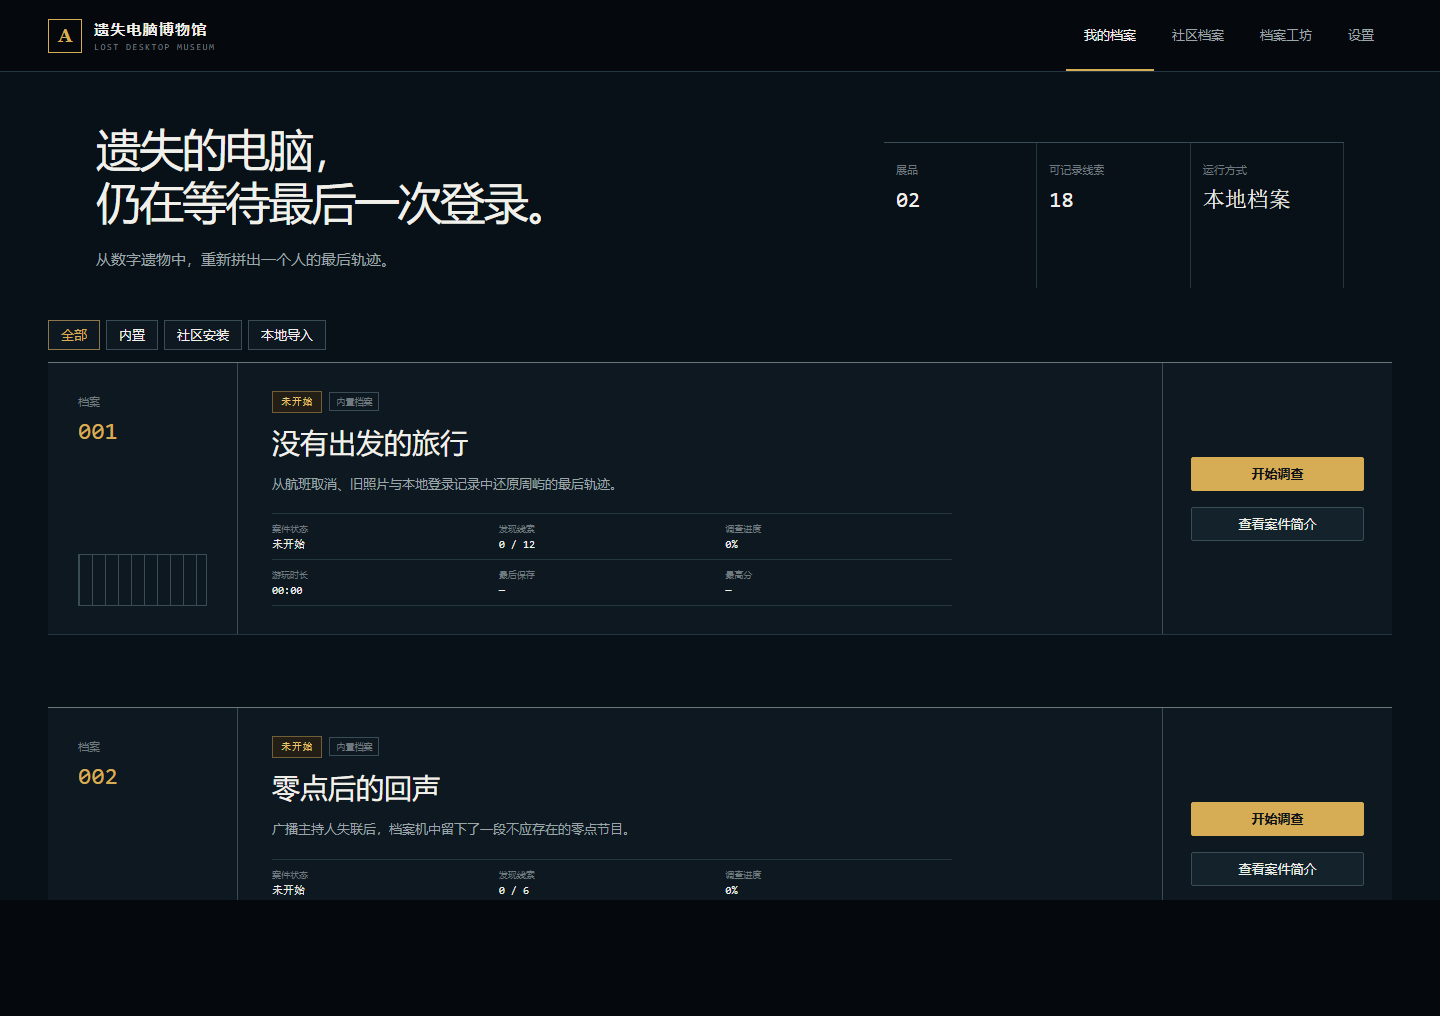
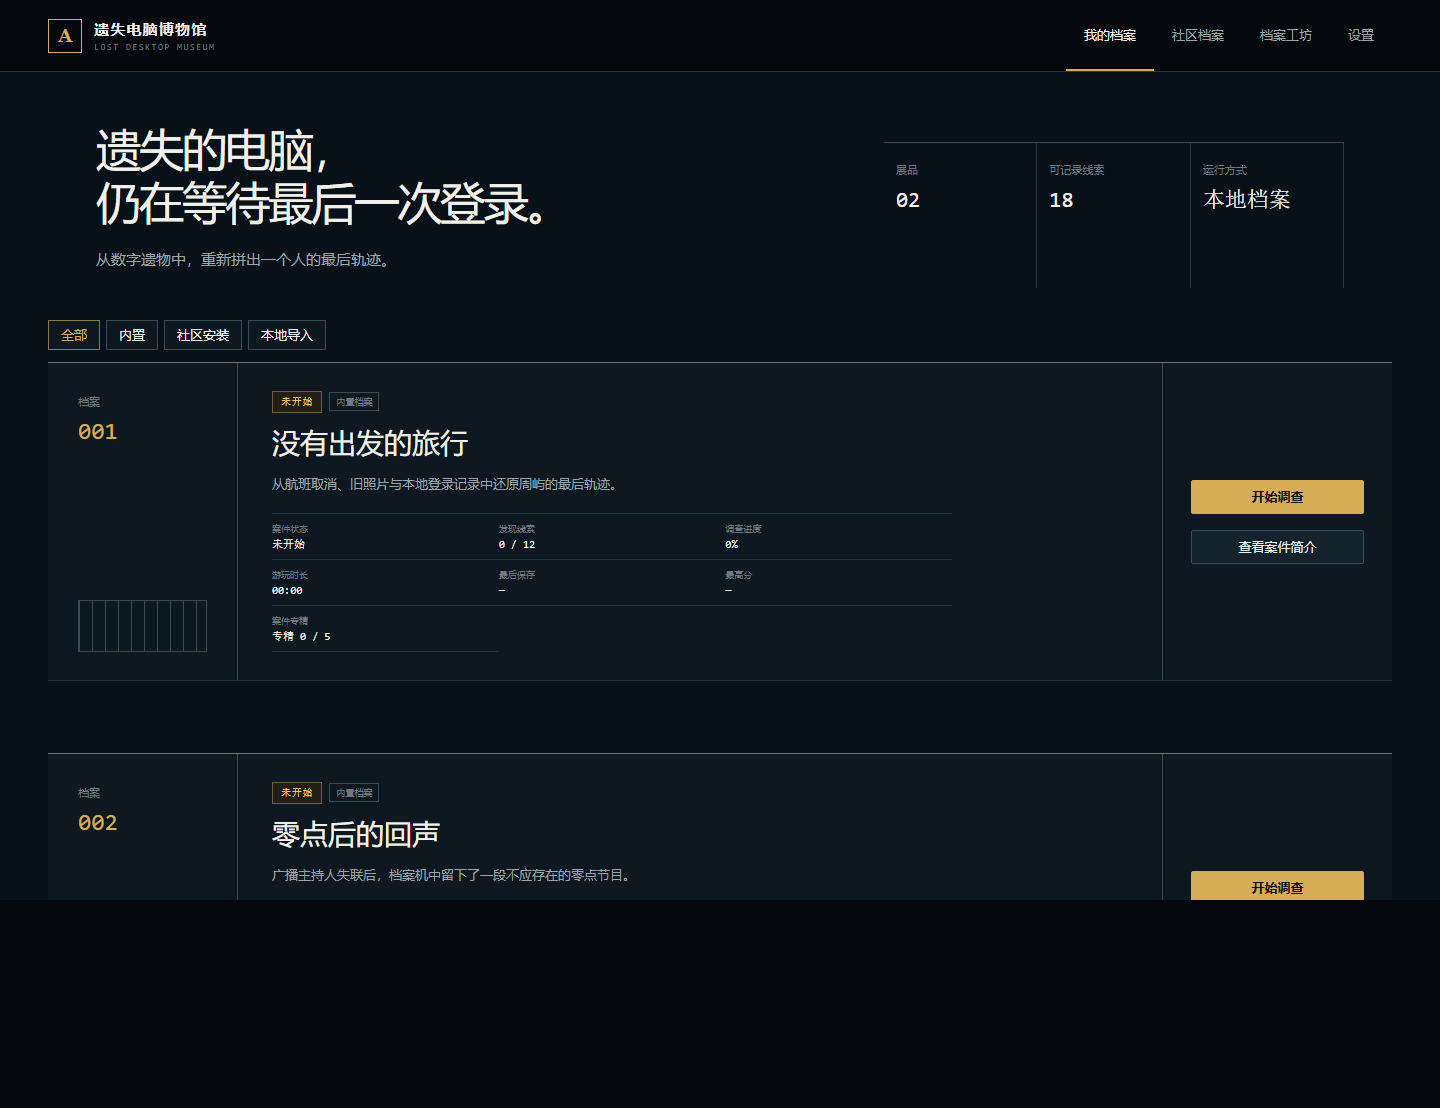
test: cover deep investigation journeys

diff --git a/e2e/deep-investigation.spec.ts b/e2e/deep-investigation.spec.ts
@@ -1,0 +1,183 @@
+import { expect, test, type Page } from '@playwright/test'
+import { readFile } from 'node:fs/promises'
+
+function watchErrors(page: Page) {
+  const errors: string[] = []
+  page.on('pageerror', (error) => errors.push(error.message))
+  page.on('console', (message) => { if (message.type() === 'error') errors.push(message.text()) })
+  return errors
+}
+
+async function enterFirstCase(page: Page) {
+  await page.goto('/')
+  await page.getByRole('button', { name: '查看案件简介' }).click()
+  await page.getByRole('button', { name: '开始调查' }).click()
+  await page.getByRole('button', { name: '跳过启动' }).click()
+  await page.getByRole('button', { name: '进入调查桌面' }).click()
+  const onboarding = page.getByRole('button', { name: '跳过介绍' })
+  if (await onboarding.count()) await onboarding.click()
+  await expect(page.getByTestId('desktop')).toBeVisible()
+}
+
+async function openApp(page: Page, name: string) {
+  await page.getByRole('button', { name, exact: true }).dblclick()
+  await expect(page.getByRole('dialog', { name })).toBeVisible()
+}
+
+async function closeApp(page: Page, name: string) {
+  await page.getByRole('button', { name: `关闭 ${name}` }).click()
+}
+
+async function discoverAllClues(page: Page) {
+  await openApp(page, '邮件')
+  await page.getByRole('button', { name: /HX217 订单取消成功/ }).click()
+  await closeApp(page, '邮件')
+  await openApp(page, '讯息')
+  await page.getByRole('button', { name: /周屿 · 23:12/ }).click()
+  await closeApp(page, '讯息')
+  await openApp(page, '照片')
+  await page.getByRole('button', { name: /IMG_1117_发给唐遥/ }).click()
+  await page.getByRole('button', { name: '查看元数据' }).click()
+  await closeApp(page, '照片')
+  await openApp(page, '浏览记录')
+  await page.getByRole('button', { name: /如何保留照片画面但更改拍摄时间/ }).click()
+  await closeApp(page, '浏览记录')
+  await openApp(page, '回收站')
+  await page.getByRole('button', { name: /告别信_v3/ }).click()
+  await closeApp(page, '回收站')
+  await openApp(page, '日历')
+  await page.getByRole('button', { name: '林然生日' }).click()
+  await closeApp(page, '日历')
+  await openApp(page, '系统日志')
+  await page.getByRole('button', { name: /创建隐藏用户 LINRAN/ }).click()
+  await page.getByRole('button', { name: /HOME-NET-5G/ }).click()
+  await closeApp(page, '系统日志')
+  await openApp(page, '邮件')
+  await page.getByRole('button', { name: /草稿/ }).click()
+  await page.getByRole('button', { name: /给妈妈/ }).click()
+  await page.getByRole('button', { name: /收件箱/ }).click()
+  await page.getByRole('button', { name: /北岸酒店预订成功/ }).click()
+  await closeApp(page, '邮件')
+  await openApp(page, '讯息')
+  await page.getByRole('button', { name: /房东陈女士/ }).click()
+  await page.getByRole('button', { name: /陈女士 · 23:31/ }).click()
+  await closeApp(page, '讯息')
+  await openApp(page, '我的文件')
+  await page.getByRole('button', { name: /不要打开/ }).click()
+  await page.getByRole('button', { name: /mirror\.lock/ }).dblclick()
+  await page.getByRole('textbox', { name: 'mirror.lock 密码' }).fill('1119')
+  await page.getByRole('button', { name: '解锁' }).click()
+  await expect(page.getByText(/mirror\.lock 已解锁/)).toBeVisible()
+  await page.getByRole('button', { name: /录音/ }).click()
+  await page.getByRole('button', { name: /录音_2316/ }).dblclick()
+  await page.getByRole('button', { name: '辅助转写' }).click()
+  await closeApp(page, '我的文件')
+  await expect(page.getByRole('button', { name: /已记录 12 \/ 12/ })).toBeVisible()
+}
+
+async function buildCompleteDeduction(page: Page) {
+  await openApp(page, '证据板')
+  for (const id of ['C01', 'C02', 'C03', 'C05', 'C08', 'C09']) {
+    await page.getByRole('button', { name: `标记 ${id} 为关键证据` }).click()
+  }
+  for (const [from, to] of [['C01', 'C02'], ['C03', 'C04']]) {
+    await page.getByLabel('关系起点').selectOption(from)
+    await page.getByLabel('关系终点').selectOption(to)
+    await page.getByRole('button', { name: '连接' }).click()
+  }
+  await page.getByRole('button', { name: '打开最终推理' }).click()
+  await page.getByLabel('主动制造已经离开的假象').check()
+  await page.getByLabel('周屿的住所').check()
+  await page.getByLabel('周屿准备使用的新身份').check()
+  await page.getByLabel('个人推理（只保存在本地）').fill('取消的航班、旧照片、住宅网络登录和录音环境形成互相校验的证据链。')
+  await page.getByRole('button', { name: '提交推理' }).click()
+}
+
+test('objectives, finite hints, mastery report and restart form a replayable loop', async ({ page }) => {
+  test.setTimeout(60_000)
+  const errors = watchErrors(page)
+  await enterFirstCase(page)
+
+  await page.getByRole('button', { name: /调查目标 0\/3/ }).click()
+  const panel = page.getByRole('dialog', { name: '深度调查' })
+  await expect(panel).toContainText('核对离开叙述')
+  await page.screenshot({ path: 'docs/images/stage6-investigation-objectives.png', fullPage: true })
+  await panel.getByRole('tab', { name: '分析提示' }).click()
+  await expect(panel).toContainText('剩余 3 / 3')
+  const flightHint = panel.locator('.hint-entry').filter({ hasText: '行程状态' })
+  await flightHint.getByRole('button', { name: '使用 1 点分析' }).click()
+  await page.getByRole('dialog', { name: '使用分析提示？' }).getByRole('button', { name: '显示提示' }).click()
+  await expect(panel).toContainText('剩余 2 / 3')
+  await expect(flightHint).toContainText('先确认计划中的交通工具是否仍然有效。')
+  await page.screenshot({ path: 'docs/images/stage6-analysis-hints.png', fullPage: true })
+  await page.keyboard.press('Escape')
+  await expect(panel).toBeHidden()
+
+  await openApp(page, '邮件')
+  await page.getByRole('button', { name: /HX217 订单取消成功/ }).click()
+  await closeApp(page, '邮件')
+  await page.getByRole('button', { name: /调查目标 \d+\/\d+/ }).click()
+  await panel.getByRole('tab', { name: '分析提示' }).click()
+  await expect(flightHint).toContainText('已记录')
+  await expect(flightHint).toContainText('先确认计划中的交通工具是否仍然有效。')
+  await page.keyboard.press('Escape')
+
+  await discoverAllClues(page)
+  await buildCompleteDeduction(page)
+  const result = page.locator('.result-screen')
+  await expect(result).toContainText('档案重建完成')
+  await expect(result).toContainText('目标完成 5 / 5')
+  await expect(result).toContainText('本次挑战 4 / 5')
+  await expect(result).toContainText('使用提示 1 层')
+  await expect(result).toContainText('完整归档注记')
+  await page.screenshot({ path: 'docs/images/stage6-investigation-report.png', fullPage: true })
+
+  await page.getByRole('button', { name: '保存并返回档案馆' }).click()
+  const caseRow = page.locator('.exhibit-row').filter({ hasText: '没有出发的旅行' })
+  await expect(caseRow).toContainText('专精 4 / 5')
+  await caseRow.getByRole('button', { name: '重新调查' }).click()
+  await page.getByRole('dialog', { name: '重新开始调查？' }).getByRole('button', { name: '清除进度并重新开始' }).click()
+  await expect(page.getByRole('heading', { name: '没有出发的旅行' })).toBeVisible()
+  await page.getByRole('button', { name: '← 返回档案馆' }).click()
+  await expect(caseRow).toContainText('专精 4 / 5')
+
+  await caseRow.getByRole('button', { name: '查看案件简介' }).click()
+  await page.getByRole('button', { name: '开始调查' }).click()
+  await page.getByRole('button', { name: '跳过启动' }).click()
+  await page.getByRole('button', { name: '进入调查桌面' }).click()
+  await page.getByRole('button', { name: /调查目标 0\/3/ }).click()
+  await panel.getByRole('tab', { name: '分析提示' }).click()
+  await expect(panel).toContainText('剩余 3 / 3')
+  expect(errors).toEqual([])
+})
+
+test('a pre-gameplay ldmcase imports with generated objectives and hints', async ({ page }) => {
+  const errors = watchErrors(page)
+  await page.goto('/')
+  const bytes = await readFile('tests/fixtures/community/packages/valid-1.0.0.ldmcase')
+  await page.locator('input[type="file"][accept*=".ldmcase"]').setInputFiles({
+    name: 'legacy-community-case.ldmcase',
+    mimeType: 'application/zip',
+    buffer: bytes,
+  })
+  await expect(page.getByText(/已安装案件：消失的备用钥匙/)).toBeVisible()
+  const row = page.locator('.exhibit-row').filter({ hasText: '消失的备用钥匙' })
+  await row.getByRole('button', { name: /查看 消失的备用钥匙 案件简介/ }).click()
+  await expect(page.getByRole('heading', { name: '深度调查规则' })).toBeVisible()
+  await expect(page.getByText('独立分析')).toBeVisible()
+  await expect(page.getByText('独立受训员')).toHaveCount(0)
+  await page.getByRole('button', { name: '开始调查' }).click()
+  await page.getByRole('button', { name: '跳过启动' }).click()
+  await page.getByRole('button', { name: '进入调查桌面' }).click()
+  const onboarding = page.getByRole('button', { name: '跳过介绍' })
+  if (await onboarding.count()) await onboarding.click()
+  await page.getByRole('button', { name: /调查目标 0\/3/ }).click()
+  const panel = page.getByRole('dialog', { name: '深度调查' })
+  await panel.getByRole('tab', { name: '分析提示' }).click()
+  await expect(panel).toContainText('剩余 3 / 3')
+  const generatedHint = panel.locator('.hint-entry').filter({ hasText: '未解记录 01' })
+  await generatedHint.getByRole('button', { name: '使用 1 点分析' }).click()
+  await page.getByRole('dialog', { name: '使用分析提示？' }).getByRole('button', { name: '显示提示' }).click()
+  await expect(generatedHint).toContainText('留意「文件管理器」中的可验证记录。')
+  expect(errors).toEqual([])
+})

diff --git a/e2e/archive-workshop.spec.ts b/e2e/archive-workshop.spec.ts
@@ -54,6 +54,10 @@ test('captures the complete Archive Workshop visual acceptance set', async ({ pa
   await page.screenshot({ path: 'docs/images/stage4-condition-builder.png', fullPage: true })
   await page.getByRole('button', { name: '剧情触发器' }).click()
   await page.screenshot({ path: 'docs/images/stage4-trigger-editor.png', fullPage: true })
+  await page.getByRole('button', { name: '玩法设计' }).click()
+  await expect(page.getByRole('heading', { name: '玩法设计' })).toBeVisible()
+  await expect(page.getByLabel('初始分析额度')).toHaveValue('3')
+  await page.screenshot({ path: 'docs/images/stage6-gameplay-editor.png', fullPage: true })
   await page.getByRole('button', { name: '最终推理' }).click()
   await page.screenshot({ path: 'docs/images/stage4-deduction-editor.png', fullPage: true })
   await page.getByRole('button', { name: '资源管理器' }).click()

diff --git a/e2e/player-journey.spec.ts b/e2e/player-journey.spec.ts
@@ -205,6 +205,10 @@ test('all 12 clues, password 1119, evidence relation and final deduction remain 
   await page.getByLabel('个人推理（只保存在本地）').fill('航班取消与旧照片证明周屿制造了出发假象，住所网络的新身份登录显示他仍在本地。')
   await page.getByRole('button', { name: '提交推理' }).click()
   await expect(page.locator('.result-screen')).toContainText('档案重建完成')
+  await expect(page.locator('.result-screen')).toContainText('目标完成 4 / 5')
+  await expect(page.locator('.result-screen')).toContainText('本次挑战 4 / 5')
+  await expect(page.locator('.result-screen')).toContainText('使用提示 0 层')
+  await expect(page.locator('.result-screen')).toContainText('档案结论')
   await expect(page.getByRole('button', { name: '保存并返回档案馆' })).toBeVisible()
   expect(errors).toEqual([])
 })
